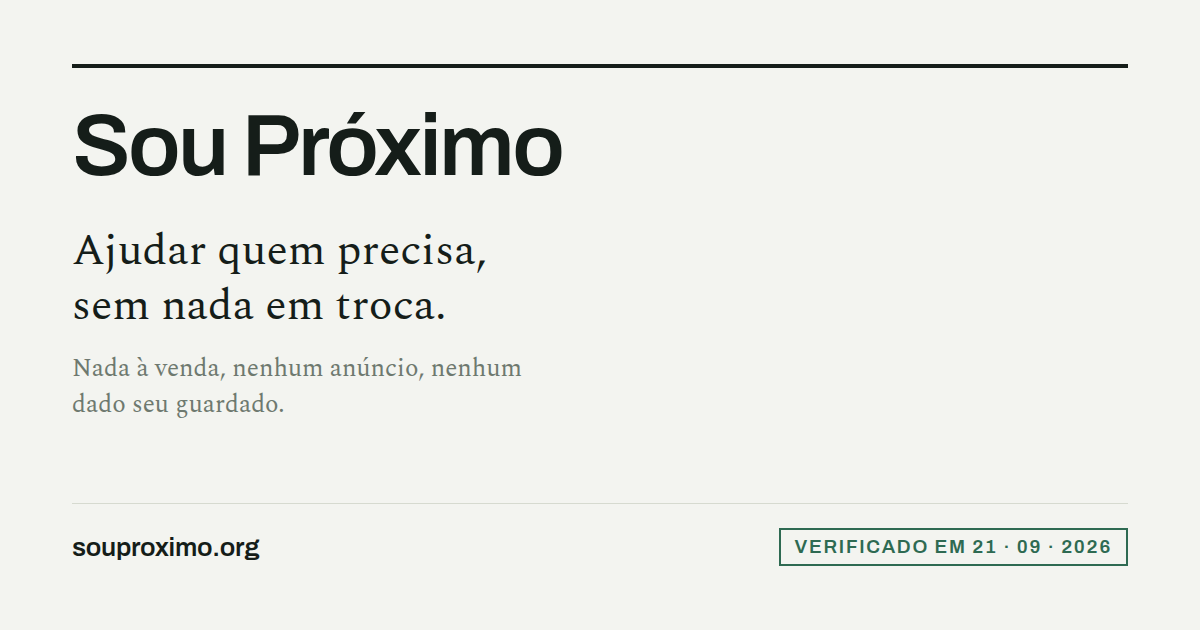
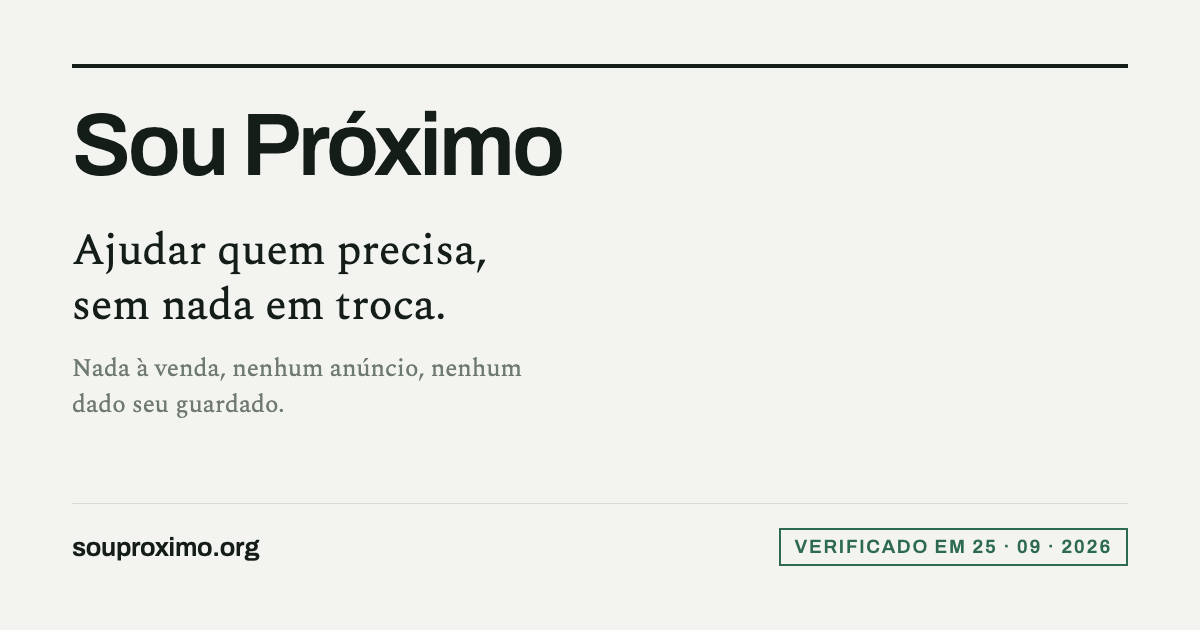
Contato e código aberto no rodapé; data conferida em 25/09
- Rodapé ganha o e-mail de contato (mailto:) e os links para o código
  do site e da calculadora (regra 03). Links comuns, mesma aba, sem
  parâmetro de rastreio; nada é carregado de fora ao abrir a página.
- CONTRIBUTING: separa recurso carregado de fora (proibido) de link
  que a pessoa clica para sair (permitido quando pedido).
- Data de verificação atualizada nos quatro lugares; og-image.png
  gerada de novo.

diff --git a/index.html b/index.html
@@ -422,6 +422,23 @@
     margin: 0;
   }
 
+  footer .notas { display: grid; gap: 8px; }
+
+  /* Links do rodapé sem cor de destaque: são notas, não chamadas. */
+  footer .nota a {
+    color: inherit;
+    text-decoration: underline;
+    text-underline-offset: 2px;
+    overflow-wrap: anywhere;
+  }
+
+  footer .nota a:hover { color: var(--ink); }
+
+  footer .nota a:focus-visible {
+    outline: 2px solid var(--ink);
+    outline-offset: 2px;
+  }
+
   @media (max-width: 720px) {
     section {
       grid-template-columns: 1fr;
@@ -456,7 +473,7 @@
       <dt>Estágio</dt>
       <dd>Em construção — a calculadora de dívidas já está no ar</dd>
       <dt>Verificado em</dt>
-      <dd><span class="selo">21 · 09 · 2026</span></dd>
+      <dd><span class="selo">25 · 09 · 2026</span></dd>
     </dl>
 
     <a class="aviso-ferramenta" href="/dividas">
@@ -572,7 +589,15 @@
 
   <footer>
     <span class="dominio">souproximo.org</span>
-    <p class="nota">Página conferida em 21 de setembro de 2026. Nada para assinar, nada para comprar, nada para instalar.</p>
+    <!--
+      Os links abaixo só saem da página quando a pessoa clica: abrir a página
+      não carrega nada de fora (regra 02). Mesma aba, sem parâmetro de rastreio.
+    -->
+    <div class="notas">
+      <p class="nota">Página conferida em 25 de setembro de 2026. Nada para assinar, nada para comprar, nada para instalar.</p>
+      <p class="nota">Quer ajudar, ou achou algo errado? Escreva para <a href="mailto:contato@souproximo.org">contato@souproximo.org</a>.</p>
+      <p class="nota">O código é aberto: veja o <a href="https://github.com/souproximo/souproximo.org">deste site</a> e o <a href="https://github.com/souproximo/calculadora-dividas">da calculadora</a>.</p>
+    </div>
   </footer>
 
 </div>

diff --git a/ferramentas/og-image.html b/ferramentas/og-image.html
@@ -66,7 +66,7 @@
   </div>
   <div class="base">
     <span class="dominio">souproximo.org</span>
-    <span class="selo">Verificado em 21 · 09 · 2026</span>
+    <span class="selo">Verificado em 25 · 09 · 2026</span>
   </div>
 </body>
 </html>

diff --git a/CLAUDE.md b/CLAUDE.md
@@ -14,17 +14,20 @@ CSS mora dentro do `index.html`. Isso não é provisório nem falta de estrutura
 
 ## O que derruba uma mudança, por melhor que esteja o código
 
-1. **Qualquer URL que aponte para fora deste domínio.** Sem Google Fonts, sem
-   CDN, sem script de terceiro, sem medição de audiência. As fontes estão em
-   `fonts/` de propósito: pedir a fonte ao Google entregaria o endereço de
-   rede de cada visitante a uma empresa que não tem nada a ver com isso.
+1. **Qualquer recurso carregado de fora deste domínio** (fonte, script,
+   imagem, CSS, iframe, medição). Sem Google Fonts, sem CDN, sem medição de
+   audiência. As fontes estão em `fonts/` de propósito: pedir a fonte ao
+   Google entregaria o endereço de rede de cada visitante a uma empresa que
+   não tem nada a ver com isso. Links que a pessoa clica para sair da página
+   são permitidos quando o Leandro pedir; `mailto:` também. Nesses links,
+   nada de parâmetro de rastreio (`utm_`, `ref=`).
 2. **Qualquer dependência em tempo de execução.** Framework, pacote, bundler,
    passo de build. O que está no repositório é o que vai para o ar.
 3. **Qualquer coisa que gere receita** — afiliado, patrocínio, "parceiro em
    destaque".
 
-Se a sua mudança adiciona uma URL que não começa com `/`, ela precisa de uma
-justificativa muito boa — e provavelmente não tem.
+Se a sua mudança faz a página carregar algo de uma URL que não começa com `/`,
+ela precisa de uma justificativa muito boa — e provavelmente não tem.
 
 ## Antes de mexer em texto
 

diff --git a/CONTRIBUTING.md b/CONTRIBUTING.md
@@ -18,8 +18,11 @@ Na prática, para este repositório:
    “parceiro em destaque”.
 2. **Pedir o mínimo de informação.** Zero requisição a terceiros, zero script
    de terceiros, zero cookie, zero medição de audiência dentro da página. Se a
-   sua mudança adiciona uma URL que não começa com `/`, ela precisa de uma
-   justificativa muito boa — e provavelmente não tem.
+   sua mudança faz a página carregar algo (fonte, script, imagem, CSS, iframe)
+   de uma URL que não começa com `/`, ela precisa de uma justificativa muito
+   boa — e provavelmente não tem. Link que a pessoa clica para sair da página
+   é outra coisa: não faz pedido nenhum ao abrir a página. Mesmo assim, só
+   entra quando pedido, e sem parâmetro de rastreio (`utm_`, `ref=`).
 3. **Código aberto.** Nada de arquivo compilado sem a fonte junto.
 4. **Mandar para o canal certo.** Procon, CRAS, Defensoria e SUS não têm
    substituto e o projeto nunca se apresenta como alternativa a eles.
